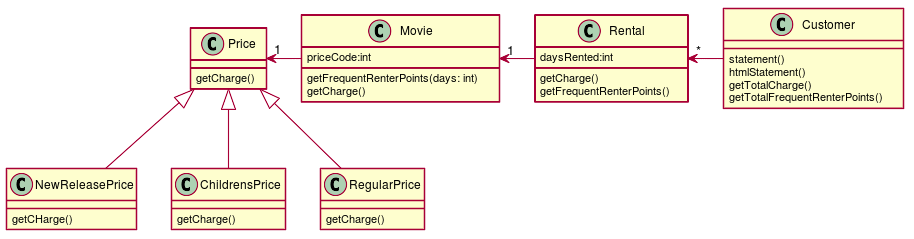
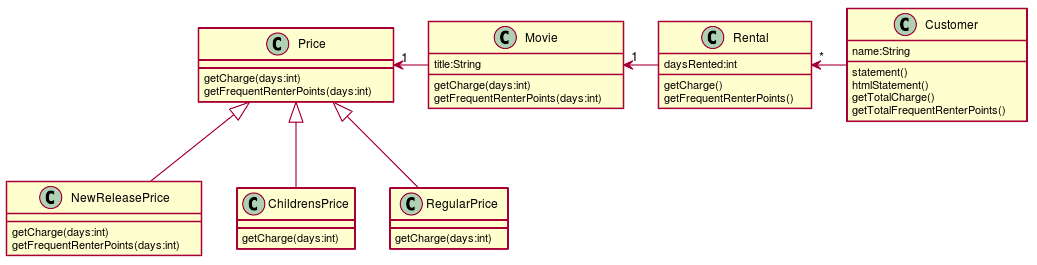
第１章　リファクタリングー最初の例 #EFJ-5
・料金計算の条件分をポリモーフィズムに置き換える

Changed region(s): [[0.1532, 0.0, 1.0, 0.5565], [0.0, 0.4686, 0.4902, 0.9958], [0.1225, 0.5565, 0.1838, 0.6444]]

diff --git a/docs/src/refacotring.md b/docs/src/refacotring.md
@@ -39,27 +39,29 @@ rectangle VedioRental {
 + [x] ~~amountForメソッドの移動~~
 + [x] ~~レンタルポイント計算部分の抽出~~
 + [x] ~~一時変数の削除~~
-+ [ ] **料金計算の条件文をポリモーフィズムに置き換える**
++ [x] ~~料金計算の条件文をポリモーフィズムに置き換える~~
 + [x] ~~最後は継承で~~~
 
 ### クラス図
 ```puml
 class NewReleasePrice {
-    getCHarge()
+  getCharge(days:int)
+  getFrequentRenterPoints(days:int)
 }
 class ChildrensPrice {
-    getCharge()
+  getCharge(days:int)
 }
 class RegularPrice {
-    getCharge()
+  getCharge(days:int)
 }
 class Price {
-    getCharge()
+  getCharge(days:int)
+  getFrequentRenterPoints(days:int)
 }
 class Movie {
-  priceCode:int
-  getFrequentRenterPoints(days: int)
-  getCharge()
+  title:String
+  getCharge(days:int)
+  getFrequentRenterPoints(days:int)
 }
 class Rental {
   daysRented:int
@@ -67,6 +69,7 @@ class Rental {
   getFrequentRenterPoints()
 }
 class Customer {
+  name:String
   statement()
   htmlStatement()
   getTotalCharge()
@@ -90,15 +93,17 @@ statement(計算書生成)メソッドのシーケンス図
        activate aCustomer
            aCustomer -> aRental :*[for all rental]getCharge
            activate aRental
-               aRental -> aMovie :getPriceCode   
-           deactivate aRental                 
-       deactivate aCustomer                             
+               aRental -> aMovie :getCharge(days)
+               aMovie -> aPrice :getCharge(days)
+           deactivate aRental
+       deactivate aCustomer
        aCustomer -> aCustomer :getTotalFrequentRenterPoints
        activate aCustomer       
            aCustomer -> aRental :*[for all rental]getFrequentRenterPoints
            activate aRental
-               aRental -> aMovie :getPriceCode   
-           deactivate aRental                      
+               aRental -> aMovie :getFrequentRenterPoints(days)
+               aMovie -> aPrice :getFrequentRenterPoints(days)
+           deactivate aRental
        deactivate aCustomer
    deactivate aCustomer
 @enduml

diff --git a/docs/refactoring.md b/docs/refactoring.md
@@ -7,7 +7,7 @@
   
 顧客が借りたビデオのレンタル料金を計算して計算書を印刷する。
 
-![](./assets/970e29cd95d34abd689ef29ef61f428b0.png?0.22037473537159236)  
+![](./assets/970e29cd95d34abd689ef29ef61f428b0.png?0.5864880505780123)  
   
 ## 仕様
   
@@ -28,19 +28,19 @@
 + [x] ~~amountForメソッドの移動~~
 + [x] ~~レンタルポイント計算部分の抽出~~
 + [x] ~~一時変数の削除~~
-+ [ ] **料金計算の条件文をポリモーフィズムに置き換える**
++ [x] ~~料金計算の条件文をポリモーフィズムに置き換える~~
 + [x] ~~最後は継承で~~~
   
 ### クラス図
   
 
-![](./assets/970e29cd95d34abd689ef29ef61f428b1.png?0.18799934620285863)  
+![](./assets/970e29cd95d34abd689ef29ef61f428b1.png?0.741962540318561)  
   
 ### シーケンス図
   
 statement(計算書生成)メソッドのシーケンス図
 
-![](./assets/970e29cd95d34abd689ef29ef61f428b2.png?0.053987287870753464)  
+![](./assets/970e29cd95d34abd689ef29ef61f428b2.png?0.8099154829369399)  
 ## 実装
   
 ### `CustomerTest.java`
